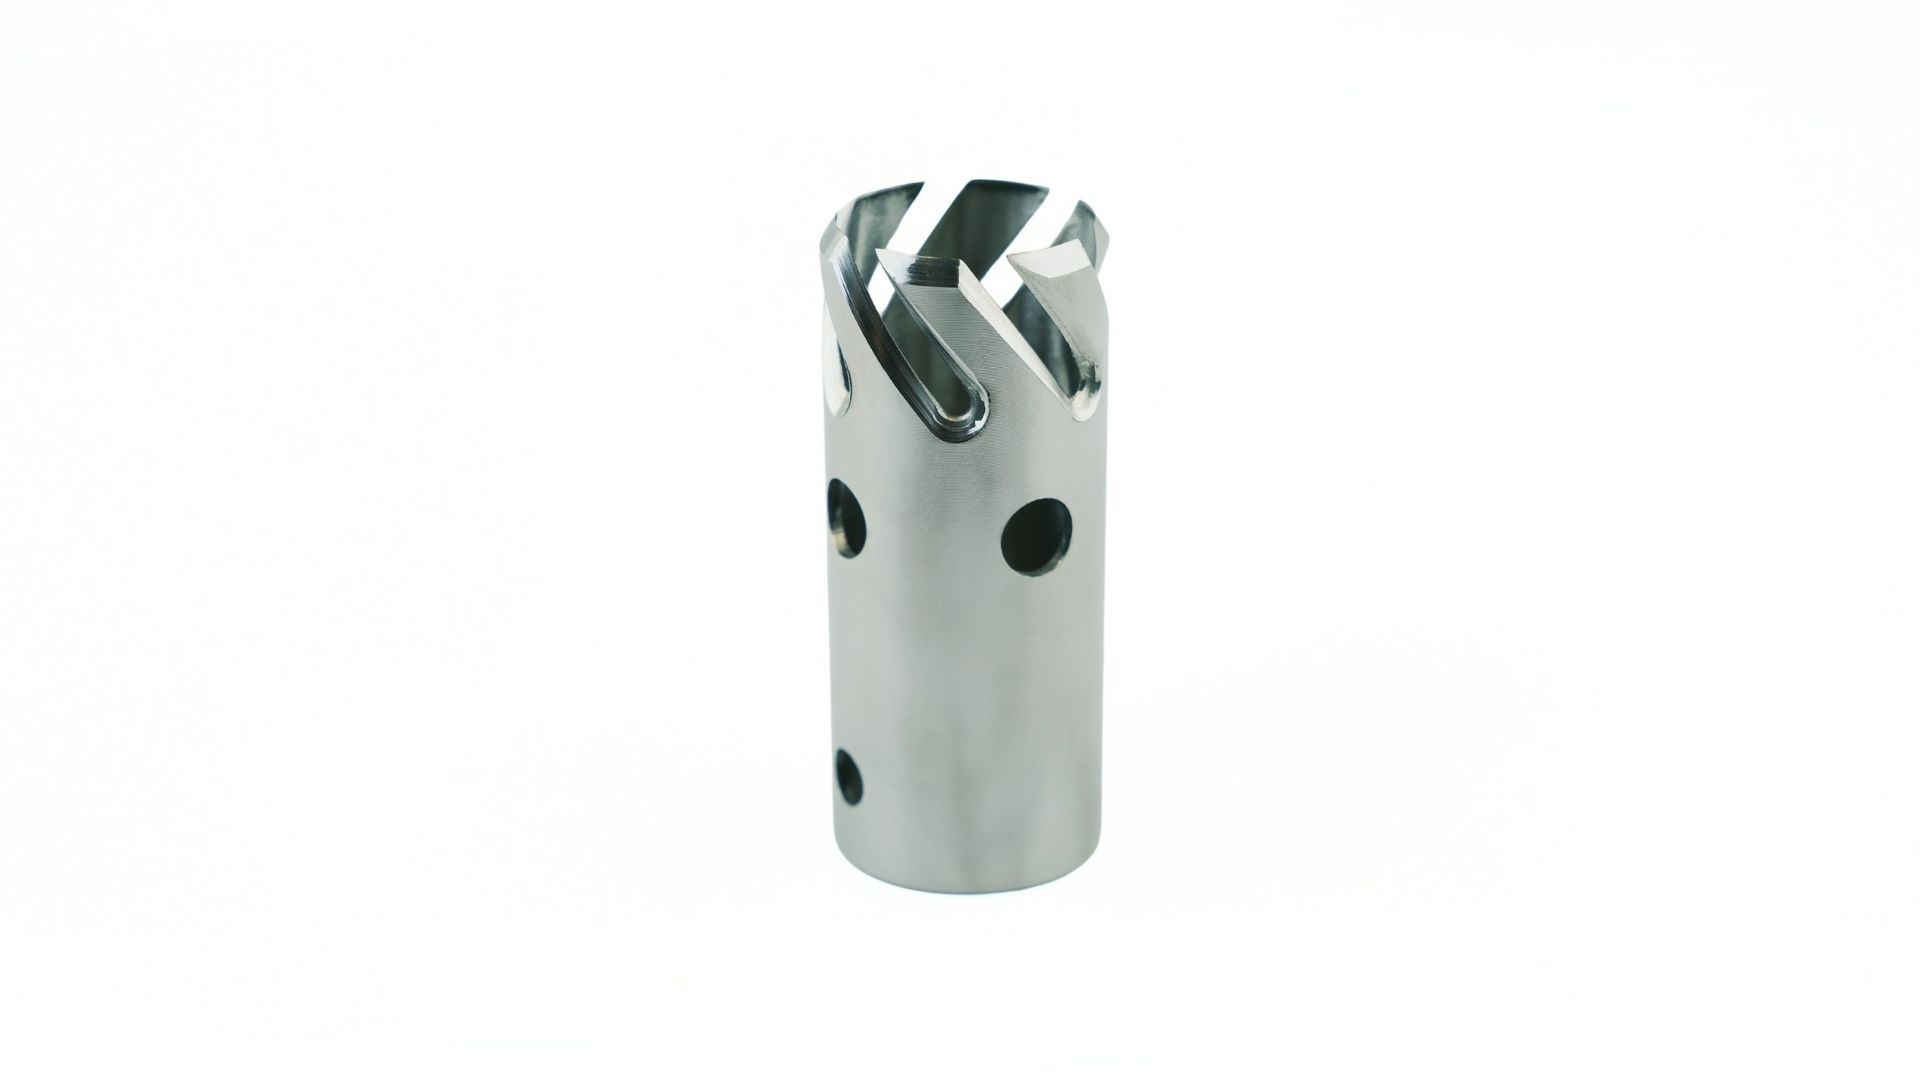
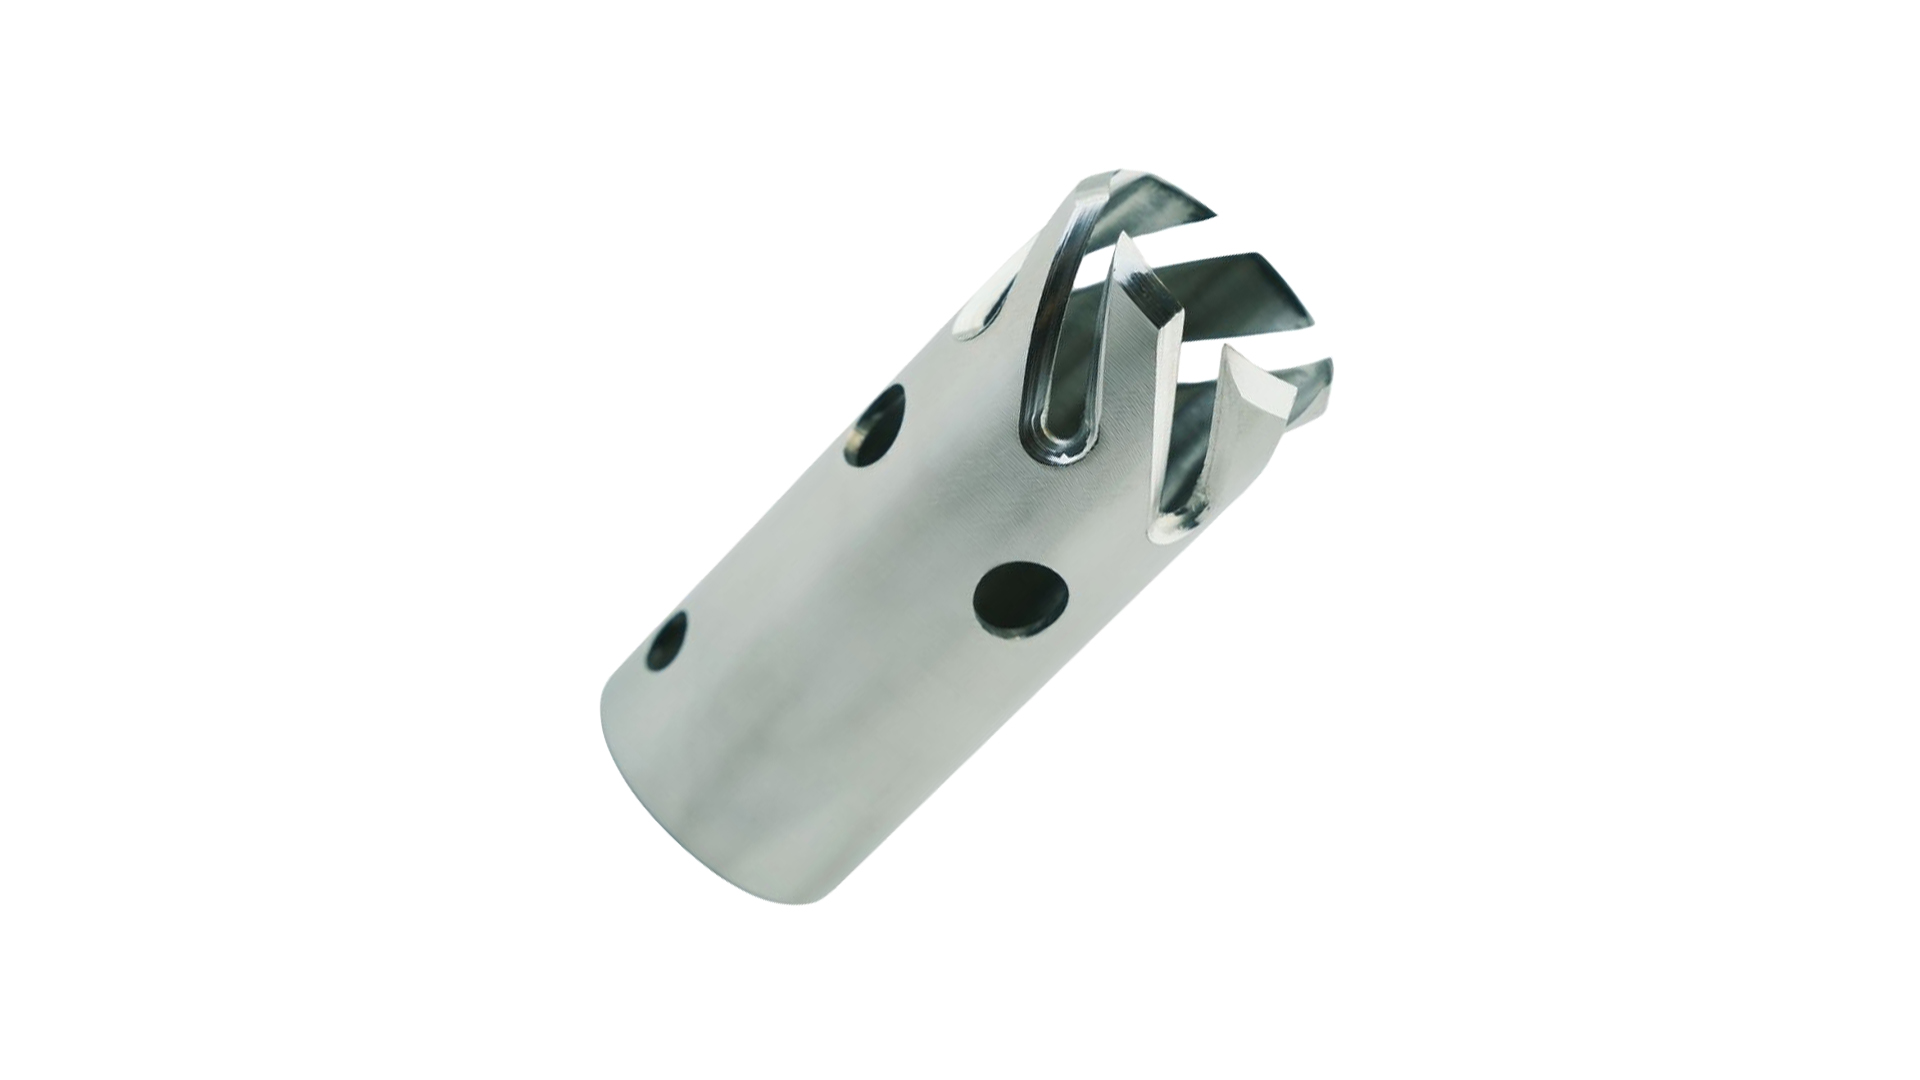
chore: replace vent-cutter image with new photo, fix alt texts (remove AISI/Marel refs), update dimensions to 1920x1080

Changed region(s): [[0.3125, 0.1528, 0.7188, 0.8556]]

diff --git a/industrial-blades/lib/data/products-extended.ts b/industrial-blades/lib/data/products-extended.ts
@@ -7310,14 +7310,14 @@ export const PRODUCTS_EXTENDED: ProductExtended[] = [
     images: {
       main: {
         src: '/images/products/vent-cutter-kanatli-kesim-bicagi.jpg',
-        alt: 'Vent Cutter Kanatlı Kesim Bıçağı — AISI 420 Paslanmaz Çelik Dairesel Eviscerasyon Bıçağı Tavuk Hindi İşleme | Alya Bıçak',
-        width: 800,
-        height: 800,
+        alt: 'Vent Cutter Kanatlı Kesim Bıçağı — Paslanmaz Çelik Dairesel Eviscerasyon Bıçağı Tavuk Hindi İşleme | Alya Bıçak',
+        width: 1920,
+        height: 1080,
       },
       gallery: [
         {
           src: '/images/products/vent-cutter-kanatli-kesim-bicagi-2.jpg',
-          alt: 'Vent Cutter İleri İşlem Bıçağı Detay — Kanatlı Hayvan Kesimhane Eviscerasyon Hattı Bıçağı Marel Meyn Uyumlu | Alya Bıçak',
+          alt: 'Vent Cutter İleri İşlem Bıçağı Detay — Kanatlı Hayvan Kesimhane Eviscerasyon Hattı Bıçağı | Alya Bıçak',
           width: 800,
           height: 800,
         },
